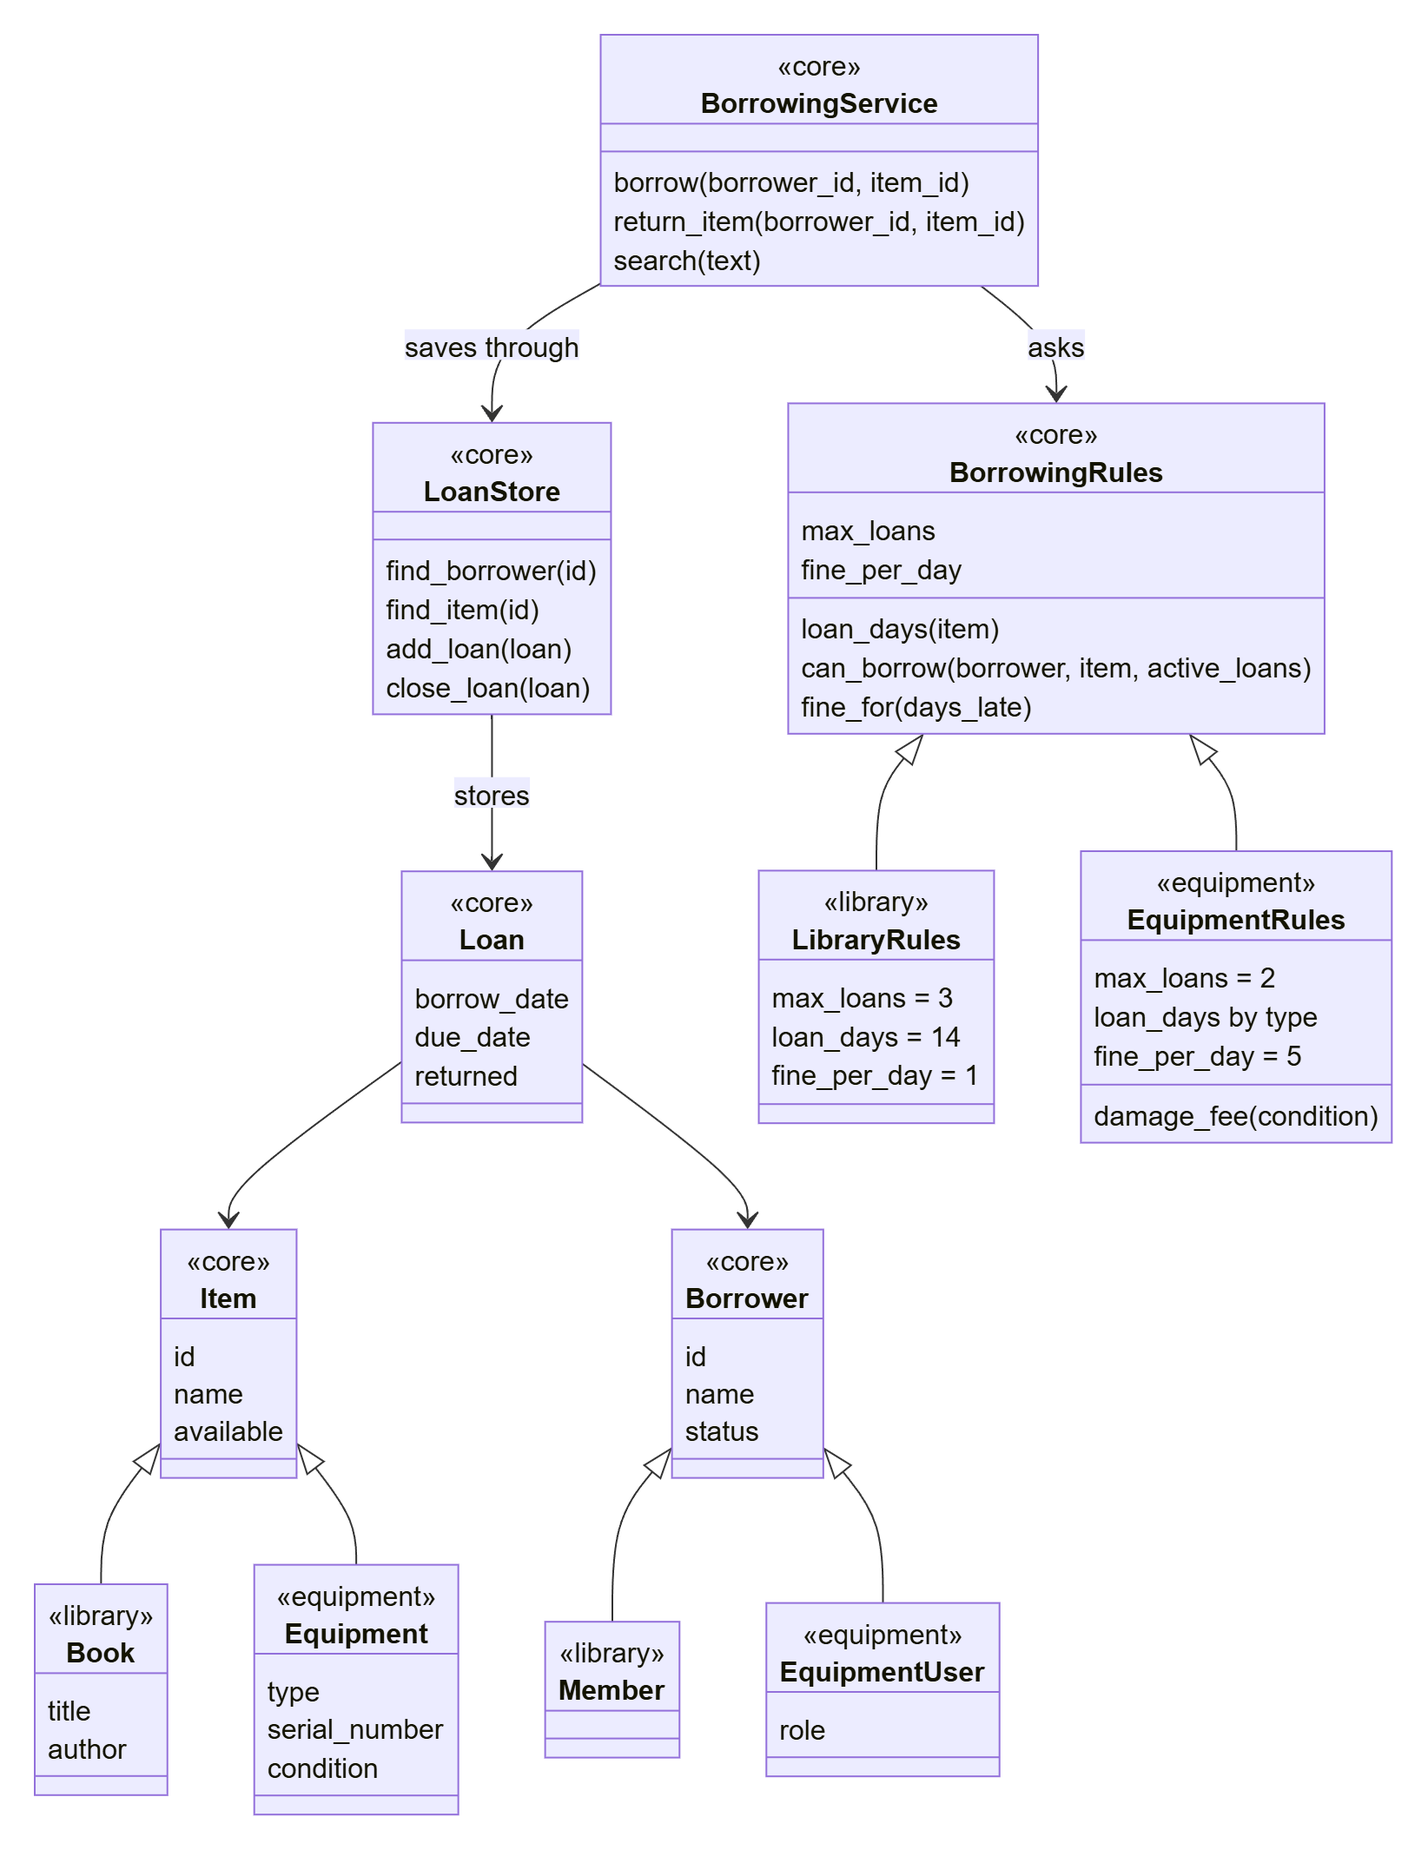
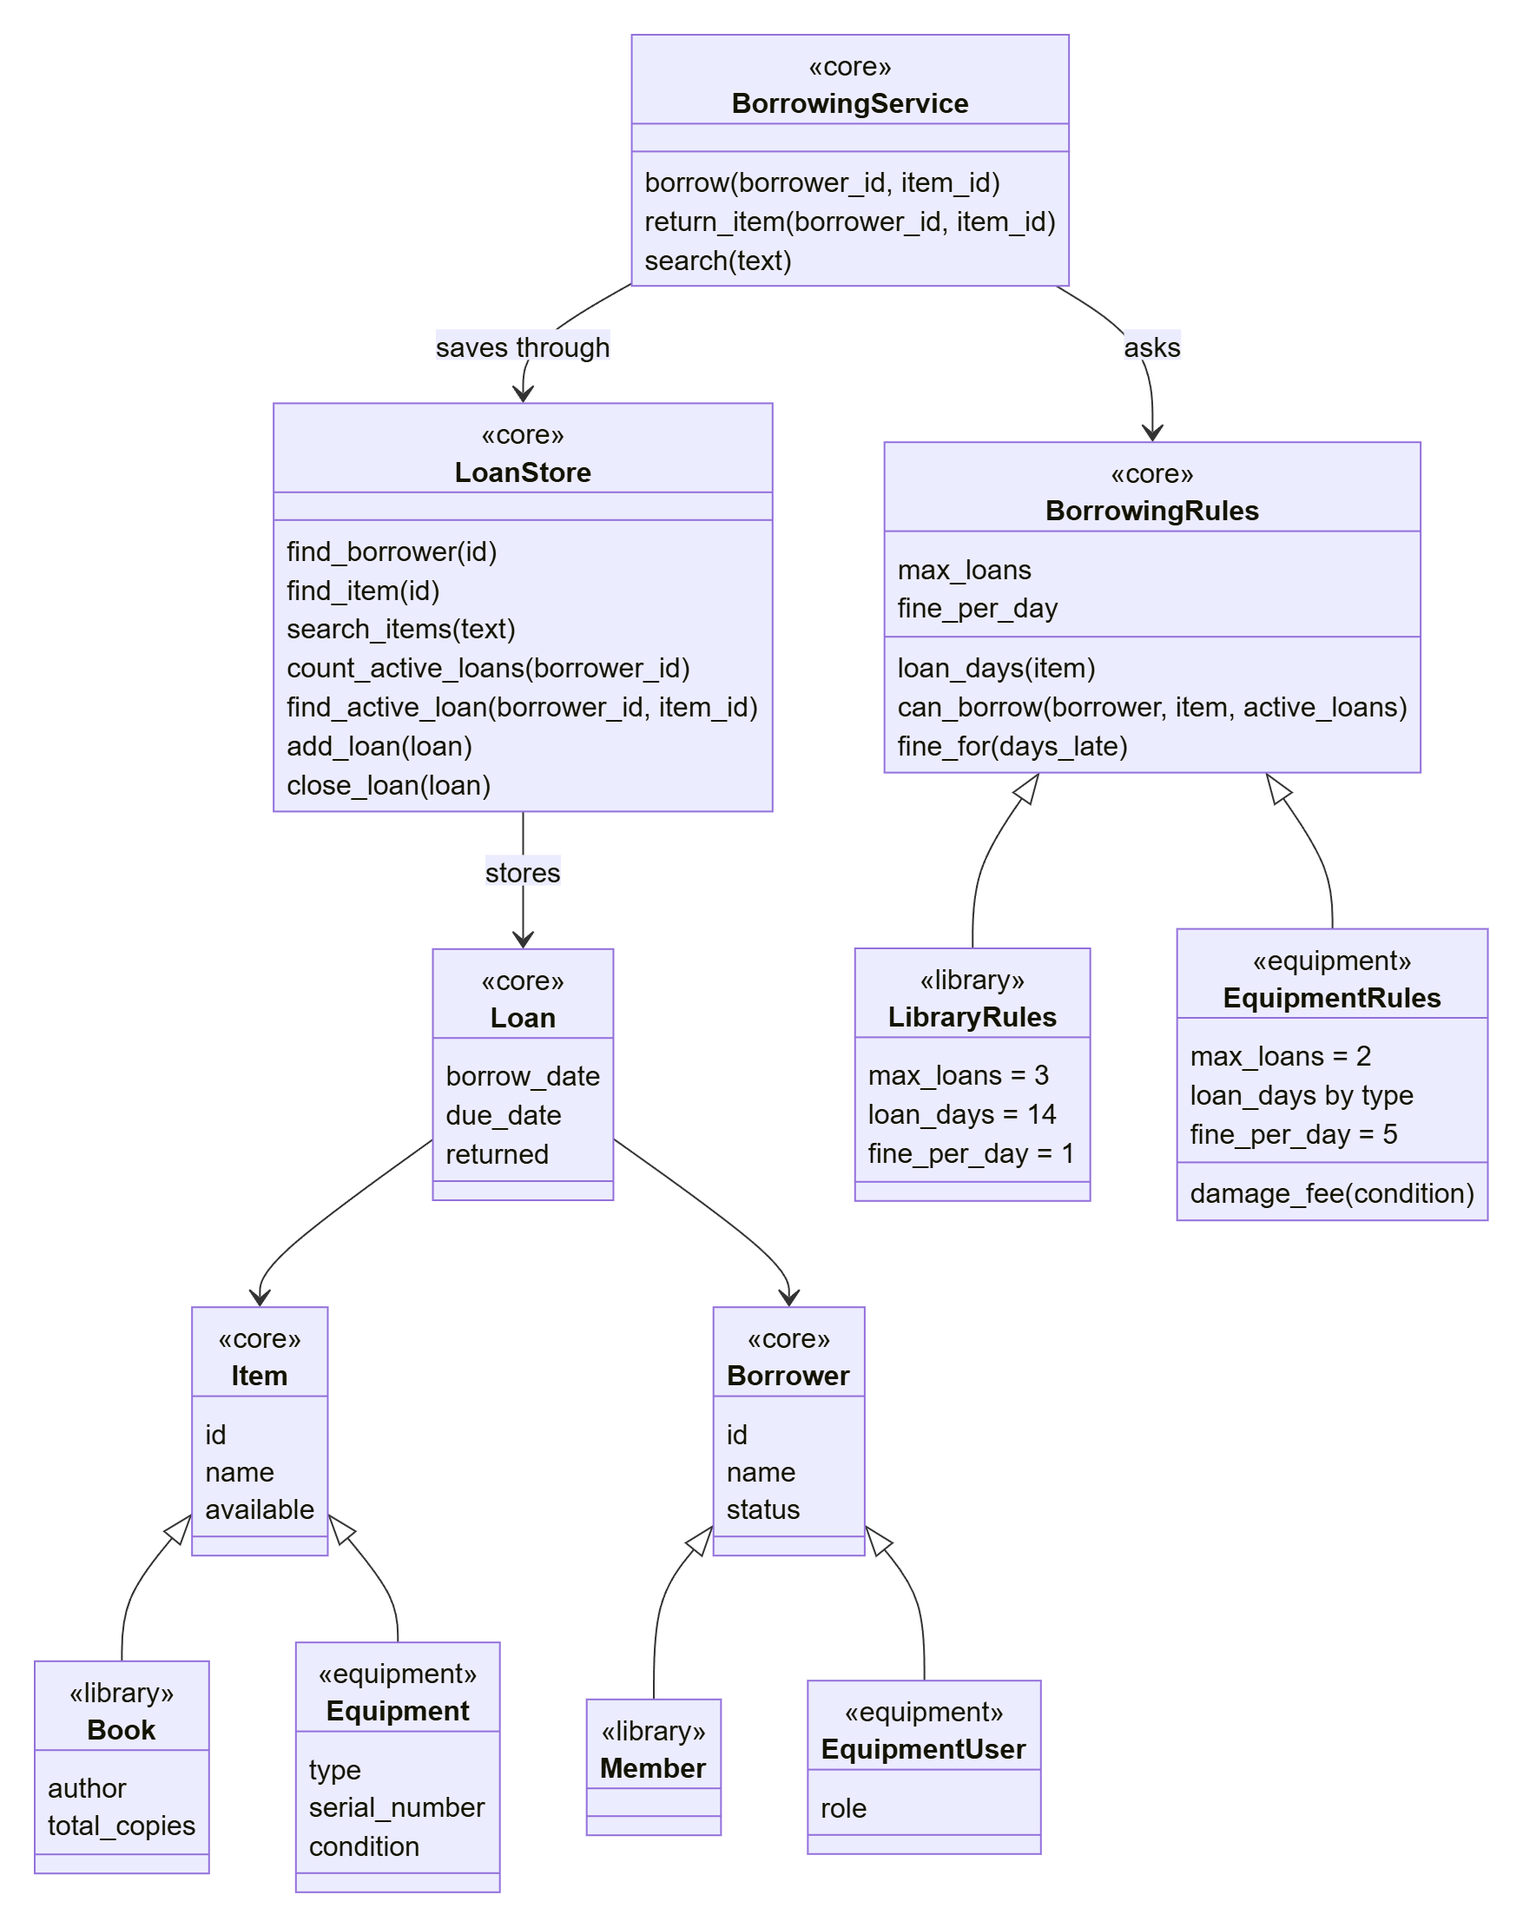
Phase 4 review fixes: account for MR-01 copies, complete LoanStore, tighten wording

diff --git a/docs/phase4/domain-architecture.md b/docs/phase4/domain-architecture.md
@@ -3,11 +3,7 @@ Task: #30 | Owner: Karam M. Ali | Status: done | Date: 21/11
 
 ## Report summary
 
-Using the common and variable features from task #29, we designed one architecture that both the library system and the equipment system can be built from. In the course, this is domain design: developing a generic architecture for the whole family of products (p.363). The architecture has a shared core and two extensions:
-- **Core:** the common features. A generic `Item`, `Borrower` and `Loan`, a `BorrowingService` that runs borrow, return and search, a `BorrowingRules` class that makes every rule decision, and a `LoanStore` for saving data.
-- **Extensions:** the variable features. Each system adds its own item and borrower types and its own rules. The library sets 3 books, 14 days and a fine of 1 per day. The equipment system sets 2 items, a loan period per type, and a damage fee.
-
-The borrowing process is written once and never changes between systems. We follow the extractive reuse model (p.357), because the core is taken from the library system we already maintain: its borrow and return checks become `BorrowingRules`, and its MR-02 storage layer becomes `LoanStore`.
+Using the common and variable features from task #29, we designed one architecture that both the library system and the equipment system can be built from. In the course, this is domain design: developing a generic architecture for the whole family of products (p.363). The architecture has a shared core that holds the common features: a generic `Item`, `Borrower` and `Loan`, a `BorrowingService` that runs borrow, return and search, a `BorrowingRules` class that makes every rule decision, and a `LoanStore` for saving data. Each system then extends the core with the variable features, its own item and borrower types and its own rules, so the library sets 3 books, 14 days and a fine of 1 per day, while the equipment system sets 2 items, a loan period per type and a damage fee. The borrowing process is written once and shared by both systems. We follow the extractive reuse model (p.357), because the core is taken from the library system we already maintain: its borrow and return checks become `BorrowingRules`, and its MR-02 storage layer becomes `LoanStore`.
 
 ## Details
 
@@ -42,6 +38,9 @@ classDiagram
         <<core>>
         find_borrower(id)
         find_item(id)
+        search_items(text)
+        count_active_loans(borrower_id)
+        find_active_loan(borrower_id, item_id)
         add_loan(loan)
         close_loan(loan)
     }
@@ -65,8 +64,8 @@ classDiagram
     }
     class Book {
         <<library>>
-        title
         author
+        total_copies
     }
     class Member {
         <<library>>
@@ -116,8 +115,10 @@ classDiagram
 | `BorrowingService` (core) | The borrow, return and search steps, in a fixed order | Borrow item, return item, search |
 | `BorrowingRules` (core) | Every rule decision: may this borrower take this item, when is it due, what is the fine | Borrower active, item available, borrowing limit, due date, late fine |
 | `Item`, `Borrower`, `Loan` (core) | The data every borrowing system needs | Loan record |
-| `LoanStore` (core) | Saving and reading data, hidden behind a few methods | Loan record |
-| `Book`, `Equipment` (extensions) | The item details of each system | Item details, search fields |
+| `LoanStore` (core) | Saving and reading data, hidden behind a few methods: find, search, count active loans, add and close loans | Loan record |
+| `Book`, `Equipment` (extensions) | The item details of each system. `Item.name` holds a book's title or an equipment item's name | Item details, search fields |
+| `Item.available` with `Book.total_copies` or one `Equipment` unit | How many units are on the shelf: for a book, a count of copies up to `total_copies` (MR-01); for equipment, 0 or 1, because each serial number is one unit | Units per item |
+| `EquipmentUser.role` (extension) | Whether the user is a student or staff member (EQ1) | Borrower must exist and be active |
 | `LibraryRules`, `EquipmentRules` (extensions) | The values each system chooses, plus the damage fee in the equipment system | Borrowing limit, borrowing period, fine amount, condition check |
 
 ### How each system is built (the second design step)
@@ -132,8 +133,9 @@ Building the equipment system this way is what the course calls application engi
 ### Why this design is reusable
 
 - **Extractive reuse (p.357):** we do not design the core from nothing. It comes from the existing library system.
-  - The borrow checks become `BorrowingRules`. In the refactoring phase, task #26 replaces the numbers 3, 14 and the fine rate with named constants, and those constants are the values that move into `LibraryRules`.
-  - The data-access layer `storage.py` from MR-02 becomes `LoanStore`.
+  - The borrow checks become `BorrowingRules`. In the refactoring phase, task #26 will replace the numbers 3, 14 and the fine rate with named constants, and those constants are the values that move into `LibraryRules`.
+  - The data-access layer `storage.py` from MR-02 becomes `LoanStore`. It already has the same kind of methods (`find_member`, `find_book`, `search_books`, `count_active_loans`, `find_active_loan`, `add_loan`, `close_loan`), named for books and members.
+  - The copy count from MR-01 becomes `Item.available`.
 - **Reusability properties (p.352):**
   - *Low coupling:* the service only talks to the rules and the store through a few methods.
   - *High cohesion:* each class has one job.
@@ -142,7 +144,7 @@ Building the equipment system this way is what the course calls application engi
 
 ### Report handoff: section 6.3 (70-word budget)
 
-Figure 5 shows a generic architecture for both systems. A shared core holds the common features: `Item`, `Borrower`, `Loan`, `BorrowingService`, `BorrowingRules` and `LoanStore`. Each system extends it with its own item and borrower types and its own rules (limit, loan period, fine rate, and a damage fee for equipment). This follows the extractive reuse model: the core is taken from our reengineered library system.
+Figure 5 shows a generic architecture for both systems. A shared core holds the common features: `Item`, `Borrower`, `Loan`, `BorrowingService`, `BorrowingRules` and `LoanStore`. Each system extends it with its own item and borrower types and its own rules (limit, loan period, fine rate, and a damage fee for equipment). This follows the extractive reuse model: the core is taken from the library system we maintain.
 
 ## Screenshots
 
@@ -154,6 +156,7 @@ Figure 5 shows a generic architecture for both systems. A shared core holds the 
 
 - Course PDF `docs/reference/maintenance-course.pdf` (Tripathy & Naik, Chapter 9): p.351 (architectural reuse), p.352 (reusability properties), p.357 (extractive reuse model), p.363 (domain design), p.366 (application engineering).
 - `docs/phase4/commonality-variability.md` (#29), for the common and variable features.
+- `docs/phase2/mr01-multiple-copies.md` (MR-01), for the copy count reused as `Item.available`.
 - `docs/phase2/mr02-database-replacement.md` (MR-02), for the storage layer reused as `LoanStore`.
 - Mermaid documentation, class diagrams: https://mermaid.js.org/syntax/classDiagram.html
 - AI tool: Claude (Anthropic), used to help draft this document and the diagram. Reviewed and edited by the author.

diff --git a/docs/phase4/commonality-variability.md b/docs/phase4/commonality-variability.md
@@ -3,7 +3,7 @@ Task: #29 | Owner: Karam M. Ali | Status: done | Date: 21/11
 
 ## Report summary
 
-We compared the Library Management System with the proposed Equipment Borrowing System to find which features they share and which differ. This is the second step of domain analysis in the course: after identifying the family of products, determine its common and variable features (p.362). The two systems clearly form a program family, a set of programs with many features in common (p.350). Both systems lend an item to a borrower and record the loan. Both check that the borrower is active and the item is available, limit how many items one person may hold, give a due date, charge a fine for late returns, and offer search. What changes between them is mostly data and values: what an item is (a book or a piece of equipment), the borrowing limit, the loan period, the fine rate, and the search fields. Only one feature, the condition check with a damage fee, exists in one system alone. Table 8 lists every feature. The common features become the shared core of the domain architecture in task #30, and the variable features become its extension points.
+We compared the Library Management System with the proposed Equipment Borrowing System to find which features they share and which differ. This is the second step of domain analysis in the course: after identifying the family of products, determine its common and variable features (p.362). The two systems clearly form a program family, a set of programs with many features in common (p.350). Both systems lend an item to a borrower and record the loan. Both check that the borrower is active and the item is available, limit how many items one person may hold, give a due date, charge a fine for late returns, and offer search. What changes between them is mostly data and values: what an item is (a book or a piece of equipment), whether a title has several copies or each unit is single, the borrowing limit, the loan period, the fine rate, and the search fields. Only one feature, the condition check with a damage fee, exists in one system alone. Table 8 lists every feature. The common features become the shared core of the domain architecture in task #30, and the variable features become its extension points.
 
 ## Details
 
@@ -33,6 +33,7 @@ The course names FODA (Feature-Oriented Domain Analysis) as a well-known method 
 | Fine for each day late | ✓ | ✓ | Common |
 | Search for items | ✓ | ✓ | Common |
 | Item details | Title, author | Name, type, serial number | Variable |
+| Units per item | Several copies of a title, kept as a count (MR-01) | One unit per serial number | Variable |
 | Borrowing limit | 3 books | 2 items | Variable |
 | Borrowing period | 14 days for every book | Depends on type: laptop 7 days, projector and camera 3 days, lab instrument 1 day | Variable |
 | Fine amount per day | 1 | 5 | Variable |
@@ -42,12 +43,12 @@ The course names FODA (Feature-Oriented Domain Analysis) as a well-known method 
 ### What the table shows
 
 - **Common:** seven features, which are the whole borrowing process. This is the part worth building once and reusing.
-- **Variable:** six features. Five of them are about item data or policy values (limit, period, fine, search fields), not about how borrowing works. They can be handled by giving each system its own item type and its own set of rules.
+- **Variable:** seven features. Six of them are about item data or policy values (item details, units per item, limit, period, fine, search fields), not about how borrowing works. They can be handled by giving each system its own item type and its own set of rules.
 - **Only one variable feature adds new behavior:** the condition check. It belongs to the equipment system alone and is added as an extension, without changing the shared core.
 
 ### Report handoff: section 6.2 (70-word budget)
 
-Following the course's domain-analysis steps, we listed the features of both systems and marked each as common or variable (Table 8). The borrowing process itself is common: active-borrower and availability checks, a limit, a due date, late fines, loan records and search. The differences are mostly values (limit, loan period, fine rate) and item details. Only the condition check is new behavior, found in the equipment system alone.
+Following the course's domain-analysis steps, we listed the features of both systems and marked each as common or variable (Table 8). The borrowing process itself is common: active-borrower and availability checks, a limit, a due date, late fines, loan records and search. The differences are mostly values (limit, loan period, fine rate) and item data (details, copies or single units). Only the equipment condition check adds new behavior.
 
 ## Screenshots
 
@@ -57,4 +58,5 @@ None needed. Table 8 above is copied into the report.
 
 - Course PDF `docs/reference/maintenance-course.pdf` (Tripathy & Naik, Chapter 9): p.350 (program families), p.362 (domain analysis steps and FODA).
 - `docs/phase4/equipment-system.md` (#28), and `docs/phase1/requirements.md` and `docs/phase1/business-rules.md`, for the features of each system.
+- `docs/phase2/mr01-multiple-copies.md` (MR-01), for the library's copies.
 - AI tool: Claude (Anthropic), used to help draft this document. Reviewed and edited by the author.

diff --git a/docs/phase4/equipment-system.md b/docs/phase4/equipment-system.md
@@ -3,7 +3,7 @@ Task: #28 | Owner: Karam M. Ali | Status: done | Date: 21/11
 
 ## Report summary
 
-The university wants a second system for lending equipment: laptops, projectors, cameras and laboratory instruments. The project description only names the item types, so we wrote the requirements ourselves, starting from the six library requirements (R1–R6) and the business rules found in Phase 1. Each equipment requirement is marked as the same as a library requirement, a changed version of one, or new. Three of the eight requirements are the same as in the library (active users only, available items only, a fine for late returns). Three are changed versions (a different borrowing limit, a loan period that depends on the type of equipment, and search by name or type). Two are new: each item is a single unit with a serial number, and the item's condition is checked when it comes back. This list is the starting point for the commonality and variability analysis in task #29.
+The university wants a second system for lending equipment: laptops, projectors, cameras and laboratory instruments. The project description only names the item types, so we wrote the requirements ourselves, starting from the six library requirements (R1–R6) and the business rules found in Phase 1. Each equipment requirement is marked as the same as a library requirement, a changed version of one, or new. Three of the eight requirements are the same as in the library (active users only, available items only, a fine for late returns). Four are changed versions: a different borrowing limit, a loan period that depends on the type of equipment, search by name or type, and items that are single serial-numbered units instead of several copies of a title (as the library has after MR-01). Only one is completely new: the item's condition is checked when it comes back. This list is the starting point for the commonality and variability analysis in task #29.
 
 ## Details
 
@@ -19,18 +19,18 @@ The project description does not list detailed requirements, so the ones below a
 
 | ID | Requirement | Compared with the library system |
 |---|---|---|
-| EQ1 | Only registered users with an active status can borrow equipment. | Same as R1 |
+| EQ1 | Only registered users (students and staff) with an active status can borrow equipment. | Same as R1 |
 | EQ2 | A user can borrow at most 2 items at a time. | Changed from R2 (limit is 2, not 3) |
 | EQ3 | An item can only be borrowed when it is available. | Same as R3 |
 | EQ4 | The loan period depends on the type: laptop 7 days, projector and camera 3 days, laboratory instrument 1 day. | Changed from R4 (fixed 14 days) |
 | EQ5 | A fine is charged for each day an item is returned late (assumed rate: 5 per day). | Same as R5 (only the rate differs) |
 | EQ6 | Users can search for equipment by name or by type. | Changed from R6 (title or author) |
-| EQ7 | Each item is a single unit identified by its serial number. | New |
+| EQ7 | Each item is a single unit identified by its serial number. | Changed from R3 as updated by MR-01 (the library keeps several copies of a title as a count) |
 | EQ8 | When an item is returned, its condition is recorded, and a damage fee is charged if it is damaged. | New |
 
 ### Report handoff: section 6.1 (60-word budget)
 
-The university also wants to lend laptops, projectors, cameras and laboratory instruments. We wrote eight requirements for this Equipment Borrowing System by starting from the library requirements. Active users only, a borrowing limit, availability, late fines and search carry over. The new parts are a loan period per equipment type, serial-numbered items, and a condition check on return.
+The university also wants to lend laptops, projectors, cameras and laboratory instruments. We wrote eight requirements for this system, starting from the library's. Active users only, availability and late fines stay the same. Changed: a limit of 2, a loan period per equipment type, search by name or type, and serial-numbered units. New: a condition check on return.
 
 ## Screenshots
 
@@ -41,4 +41,5 @@ None needed. The requirements are in the table above.
 - Course project description, *SE431 Fall-2026 Project Description*, p.2 (Phase 4: Reuse & Domain Engineering).
 - Course PDF `docs/reference/maintenance-course.pdf` (Tripathy & Naik, Chapter 9): p.350 (program families), p.362 (domain analysis steps).
 - `docs/phase1/requirements.md` (#7) and `docs/phase1/business-rules.md` (#8), for the library requirements R1–R6 and rules.
+- `docs/phase2/mr01-multiple-copies.md` (MR-01), for how the library now handles several copies of a title.
 - AI tool: Claude (Anthropic), used to help draft this document. Reviewed and edited by the author.
